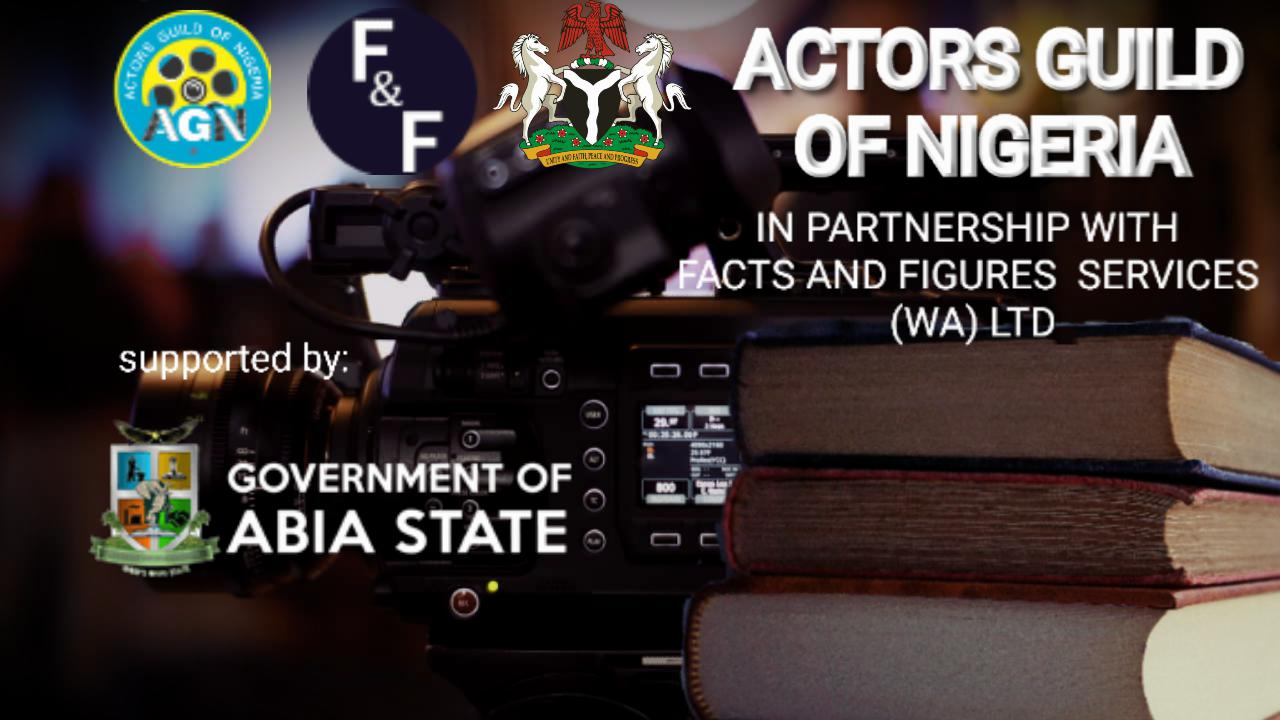
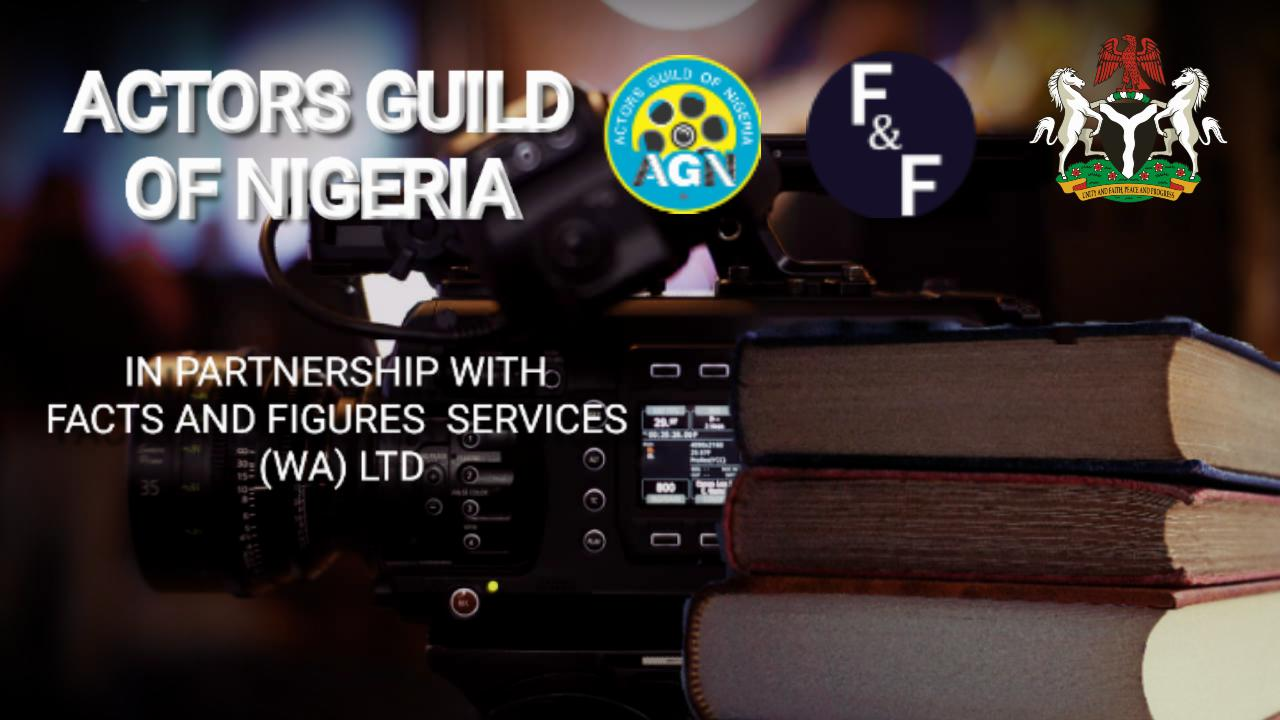
removed refs to Abia state govt. deleted subscription-form.html.

Changed region(s): [[0.0312, 0.0, 1.0, 0.4889], [0.0312, 0.4583, 0.5, 0.825]]

diff --git a/subscribe.html b/subscribe.html
@@ -22,7 +22,7 @@
 	<link rel="stylesheet" href="css/style.css" media="all">
 	<!-- end: CSS links -->
     </head>
-    <body class="pri-neutral">
+    <body class="pri-neutral fs-5">
 	<!-- begin: Main Navbar -->
 	<nav class="navbar navbar-expand-lg bg-body-tertiary">
 	    <div class="container">
@@ -61,9 +61,10 @@
 								    <h1 class="text-center mt-4">Compendium of Nigerian celebrities</h1>
 									<p>
 
-Actors Guild of Nigeria (AGN) in partnership with Facts and Figures Services (WA) Limited, and with the support of Abia State Government, is set to publish the FIRST OF ITS KIND COMPENDIUM OF CELEBRITIES in Nigeria titled: COMPANIONS OF FAME. We urge all Nigerian Celebrities in the entertainment industry to be part of this posterity project and subscribe accordingly. Elegible subscribers include: Nollywood actors/actresses, musicians, comedians, upcoming artistes, athletes/sport personalities, remembering the fallen (Twinkle, Twinkle stars), etc.
+Actors Guild of Nigeria (AGN) in partnership with Facts and Figures Services (WA) Limited, is set to publish the FIRST OF ITS KIND COMPENDIUM OF CELEBRITIES in Nigeria titled: COMPANIONS OF FAME. We urge all Nigerian Celebrities in the entertainment industry to be part of this posterity project and subscribe accordingly. Elegible subscribers include: Nollywood actors/actresses, musicians, comedians, upcoming artistes, athletes/sport personalities, unseen hands, script writers, video/ photographers, managers, producers, directors, marketers, make-up artist, DJ's, instrumentalists, reality show  personalities, brand ambassadors, dancers, singers, back up singers,band leaders, MC's, voice over artists, coaches, referees,  influencers, beauty peagants, stylists, costumiers,
+ remembering the fallen (Twinkle, Twinkle stars), etc.
 									</p>
-
+									<p> Celebrities will be categorized  according to years of experience and achievement in the entertainment industry into three (3) groups. (A), (B), & (C).</p>
 <p>This comprehensive database of industry professionals will benefit individuals and create an array of opportunities to advance their careers and engage them with a broader, more diverse clientele, ultimately contributing to their long-term success in the entertainment industry. It can additionally:</p>
 
 
@@ -221,7 +222,7 @@ If you'd like to advertise your products, services and logo/brand in the COMPEND
 												    <section id="contact-us" class="mt-3">
 													<div class="container">
 													    <h1 class="text-center">Contact Us</h1>
-													    <p>If you&rsquo;d like to reach us for enquiries or any business dealings, you can call our publisher on 0806 337 8781.<br> You can also send him an email at <a href="mailto:dennisidikan@gmail.com">dennisIdikan@gmail.com</a></p>
+													    <p>If you&rsquo;d like to reach us for enquiries or any business dealings, you can call our publisher on 0806 337 8781.<br> You can also send him an email at <a href="mailto:dennisidikan@gmail.com" class="link-secondary link-offset-2">dennisIdikan@gmail.com</a></p>
 													    <!-- begin: contact us form -->
 													    <!-- end: contact us form -->
 													</div>
